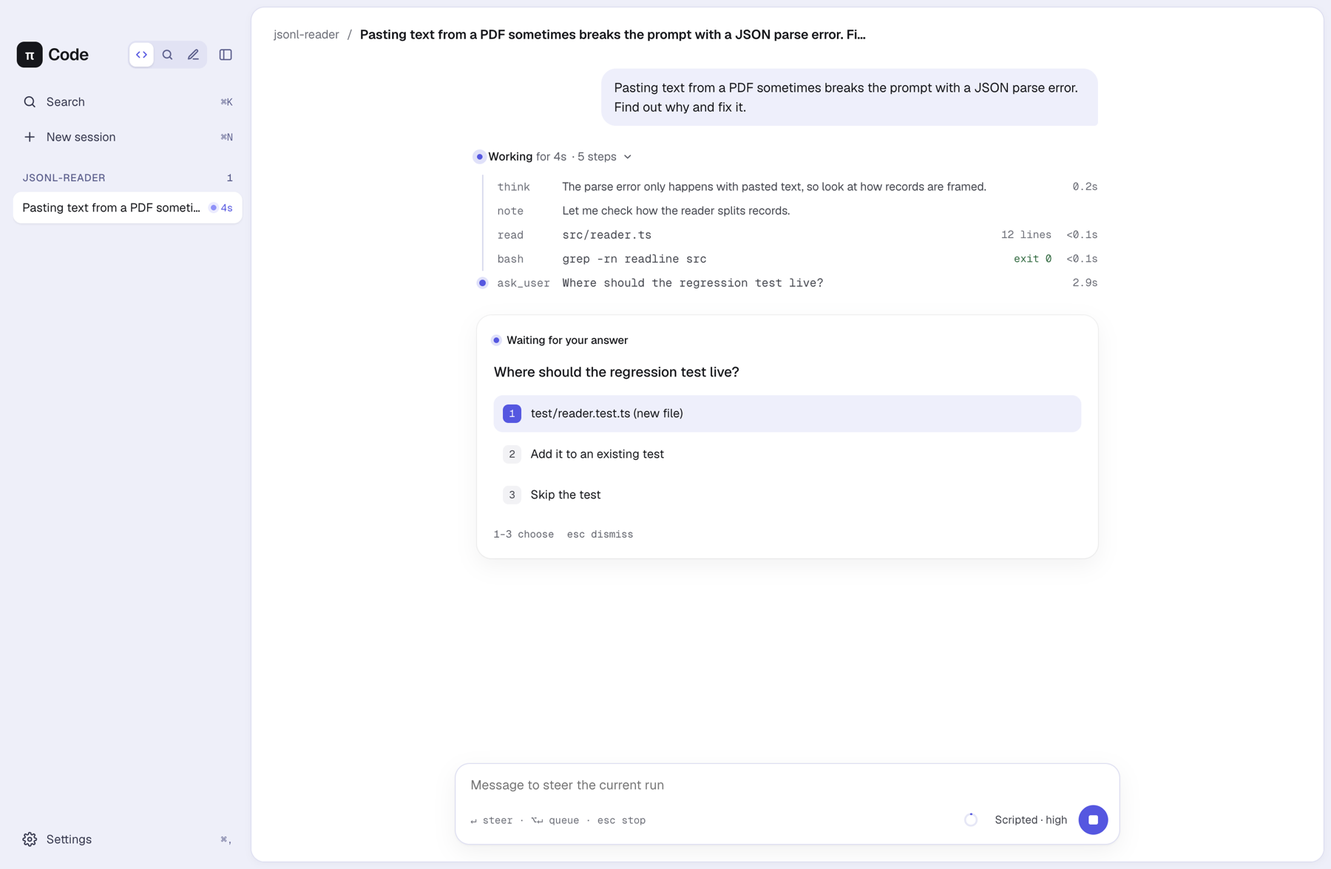
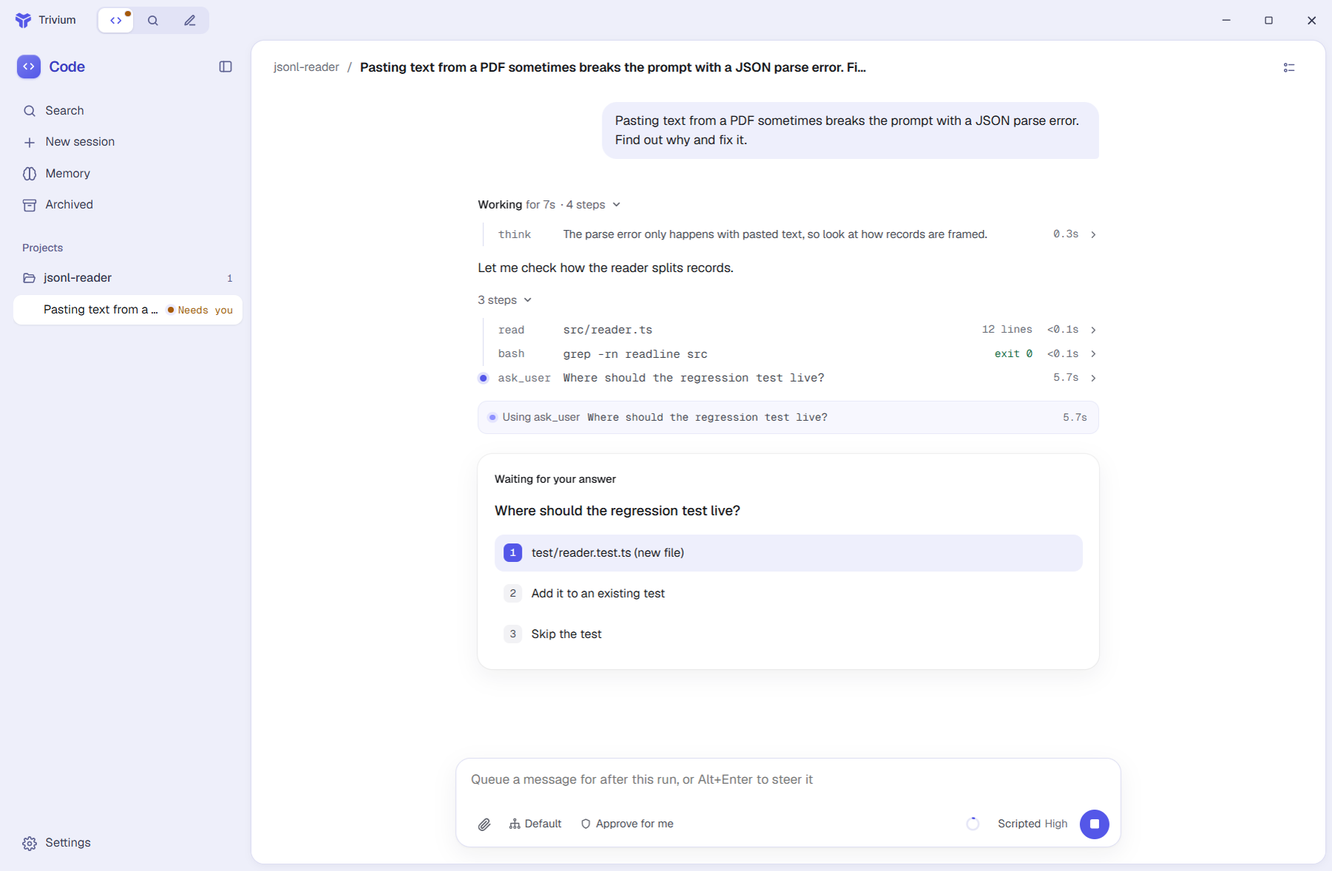
Update READMEs and screenshots for v0.14.0

diff --git a/README.zh-CN.md b/README.zh-CN.md
@@ -20,7 +20,7 @@
 
 [功能](#功能) · [快速开始](#快速开始) · [工作原理](#工作原理) · [扩展](#扩展) · [路线图](#路线图) · [参与贡献](#参与贡献)
 
-<img src="docs/screenshots/hero.png" alt="Trivium 的代码模式：一次完成的 bug 修复，包含步骤、Agent 的回答和可审阅的差异" width="100%">
+<img src="docs/screenshots/hero.png" alt="Trivium 的代码模式：一次完成的 bug 修复，包含步骤、Agent 的回答，以及带可审阅差异的源代码管理面板" width="100%">
 
 </div>
 
@@ -39,7 +39,7 @@
 
 | | 模式 | 适用场景 | 默认配置 |
 |---|---|---|---|
-| <img src="https://img.shields.io/badge/-%20-5457E8?style=flat-square" alt=""> | **代码** | 修复和构建软件 | `read` `bash` `edit` `write`，以及包含更改、Git、预览和服务的侧边面板 |
+| <img src="https://img.shields.io/badge/-%20-5457E8?style=flat-square" alt=""> | **代码** | 修复和构建软件 | `read` `bash` `edit` `write`，以及包含源代码管理、文件、预览和服务的标签页侧边面板 |
 | <img src="https://img.shields.io/badge/-%20-0B7A6E?style=flat-square" alt=""> | **研究** | 阅读资料、撰写笔记 | 不使用 shell；`read` `write` `grep` `find` `ls` 以及任何 `web_*` 工具；要求为每个论点注明出处 |
 | <img src="https://img.shields.io/badge/-%20-A65A08?style=flat-square" alt=""> | **写作** | 项目中的文档 | 编辑类工具；要求保留你的文风，并以小而可审阅的步骤修改 |
 
@@ -47,20 +47,22 @@
 
 ### 看到工作过程，而不只是答案
 
-- **步骤可折叠也可展开。** “已完成 用时 6.4s · 8 个步骤 · 1 个失败”默认不打扰你；展开即可看到每次读取、搜索、编辑和命令，以及它们的结果和耗时。
+- **步骤可折叠也可展开。** Agent 工作时，进度说明会留在对话中；最终回答给出后，进度说明和中间步骤会折叠在“已完成 用时 6.4s · 8 个步骤 · 1 个失败”下。展开即可看到每次读取、搜索、编辑和命令，以及它们的结果和耗时。
 - **正在做什么。** “工作中”下方有一行低调的文字，写明当前步骤，命令则显示其最新一行输出。
 - **子 Agent 像真正的 Agent 一样工作。** `pi-subagents` 调用会显示委派给了谁、每个子 Agent 在做什么，并行时每个子 Agent 一行；展开后可以看到任务、结果、模型和 token。后台结果会作为一次独立的运行送达。
-- **编程会话的编排工作方式。** 在项目会话的消息框中选择，或在设置 → 编程中设置新会话的默认值。Agent 先勘察大型任务，默认只安排一个编写代理；涉及不同文件、接口已确定的并行编写任务会使用独立的托管工作树，之后由主 Agent 逐个应用补丁并在项目中检查。默认方式保留原有指引。对话显示计划和所有子 Agent，代理标签页显示活动、结果、token、分支和补丁，操作按钮仅填写消息草稿。子 Agent 在项目中修改的文件进入“本会话”，并受编程权限门控保护，需要批准的操作会被拒绝。分叉会话继承工作方式。
-- **运行中排队或引导。** Agent 工作时也可以输入：`↵` 将后续消息排队到本次运行之后，`⌥↵` 引导当前运行，`esc` 停止。
+- **代码模式的编排工作方式。** 在项目会话的消息框中选择，或在设置 → 代码中设置新会话的默认值。Agent 先勘察大型任务，默认只安排一个编写代理，并为互不冲突的并行编写任务分配独立的托管工作树，之后应用补丁并在项目中检查结果。默认方式保留原有指引。对话显示计划和每个子 Agent；打开任意子 Agent 可在对话旁或独立窗口中阅读其会话，并可停止工作流中或后台运行的子 Agent。子 Agent 在项目中的更改会出现在源代码管理中，且子 Agent 运行在代码的权限关卡之下，不会自行弹出审批提问。分叉会话继承工作方式。
+- **回复中的图表。** Agent 回复中的 Mermaid 和 PlantUML 代码块会直接在对话中绘制为交互式图表：支持缩放和平移、全屏放大、在预览中打开，或下载为 SVG 或 PNG。
+- **运行中排队或引导。** Agent 工作时也可以输入：`↵` 会将后续消息加入消息框上方的可见队列（可对每条排队消息执行引导、编辑或删除），`⌥↵` 引导当前运行，`esc` 停止。
 - **上下文一目了然。** 一个小圆环显示上下文窗口用了多少；悬停可查看明细以及何时会自动压缩。
 - **回复耗时。** 指向一条回复，即可看到回答时间、总耗时、首个 token 用时和每秒 token 数。
 - **用平实的语言说明限额。** 当提供商的用量上限或余额用尽时，Trivium 会说明发生了什么、何时重置、去哪里充值，提供商的原始消息一键可见。
 
 ### 对话
 
+- **分屏视图。** 可通过侧边栏菜单、`⌘`+点击会话、将会话拖到窗口左半或右半，或按 `⌘⇧\` 并排打开两个会话。可拖动调整分屏宽度，各模式在重启后会记住分屏布局；窗口较窄时自动切换为两个标签页。
 - **编辑、分叉或复制任意消息。** 编辑会就地打开一条消息，发送后从这里重新开始；pi 会把旧的回复保留在单独的分支上。分叉会把对话截至某条消息的内容复制到一个新会话中。复制会按原样复制消息或回复的 Markdown。
 - **无项目的聊天。** 在“新会话”中选择**无项目**，即可开始不需要文件夹的对话。这些聊天位于侧边栏的“聊天”下。
-- **置顶与整理。** 右键点击项目或会话，可以将其置顶、新建会话、将消息导出为 Markdown、复制会话 ID、归档或删除。归档的会话会离开侧边栏和搜索，移到**已归档**，按工作区列出，可在此还原或删除。
+- **置顶与整理。** 右键点击项目或会话，可以将其置顶、新建会话、将消息导出为 Markdown、复制会话 ID、归档或删除。超过 8 个会话的项目会将较早的会话折叠在**显示更多**后面。归档的会话会离开侧边栏和搜索，移到**已归档**，按工作区列出，可在此还原或删除。
 - **一个按钮管理模型和思考强度。** 消息框中的模型按钮会打开一个菜单，用滑块调节思考强度，并提供可搜索的模型列表。
 
 <p align="center">
@@ -88,15 +90,12 @@
 
 ### 审阅每一处更改
 
-代码模式的侧边面板一次显示一个视图，可在其**在面板中显示**菜单中选择。
+代码模式的侧边面板以标签页形式承载各个视图（就像浏览器标签页），可从标题栏的**概要卡片**按钮打开；点击该按钮会在对话上方下拉一张清单，汇总服务、源代码管理和文件状态。
 
-- **更改。** 无论是通过编辑，还是通过格式化工具、`sed` 或 `rm` 之类的命令，代码模式都会在 Agent 首次改动某个文件之前记录它，因此这个视图在**此会话**下按文件列出整个会话的净差异。对于命令，它会在每条命令运行前为项目拍下快照，运行后再作比较；无论是否在 git 仓库中都可以，而且不会写入你的 `.git`。git 忽略的文件、超过 10 MB 的文件、项目之外的文件，以及仍在后台运行的命令之后写入的内容不在其列。每个文件都有还原按钮，可只恢复该文件（Agent 创建的文件会连同为它创建的文件夹一起删除）。文件提交后会离开此列表，因此还原不会撤销已提交的工作。在 git 仓库中，这个视图还会显示分支、待推送或待拉取的提交，并在**其他未提交的更改**下列出 git 报告的其余内容：你自己的编辑、会话之前就已更改的文件。已暂存和有冲突的文件会带有标记。git 部分会在运行结束、编辑或命令之后以及窗口重新获得焦点时刷新，无需轮询。任何文件都可以在 VS Code 中打开，会话的文件会定位到第一处更改。
-- **历史。** 对话旁的**历史**卡片会以提交图显示所有分支、远程分支和标签。点击提交可查看作者、提交信息和更改的文件，点击文件可阅读它在该提交中的差异。合并提交显示与第一个父提交的差异。不是 git 仓库的文件夹会在标签页中说明。
-- **预览。** 以标签页打开项目文件：HTML 页面在沙盒框架中显示，带有自己的样式和图片（在你允许之前脚本关闭，网络被阻止），还支持 Markdown（含 Mermaid 和 PlantUML 图表，PlantUML 需要在本机安装）、CSV 表格、带行号的文本和图片。文件在磁盘上变化时会自动重新加载。可以从步骤上的眼睛图标、回复中的文件路径，或更改视图中打开。回复中的图表也可以在这里打开，或在应用上方放大查看：滚轮缩放，拖动移动，并可下载为 SVG 或 PNG。
-- **服务。** 开发服务器、监视进程、数据库，以及命令留下的任何其他进程，例如 `npm run dev &`。每个服务都会显示其命令、进程、监听的端口和最新输出，并提供**停止**按钮，停止它以及它启动的所有进程。可以在预览或浏览器中打开它的地址。标题栏和侧边栏中的绿点表示某个会话有服务在运行。会话被卸载时服务继续运行，会话被删除或 Trivium 退出时服务会停止（退出前会询问）。如果 Trivium 崩溃，下次启动时它们会再次显示。
-
-标题栏会显示会话所在的分支、更改了多少文件，并在有提交需要推送或拉取时显示一个圆点。点击它可以看到文字概览：
-上游分支及其最近一次获取时间、尚未推送的提交和远程有而本地没有的提交、已暂存或已更改的内容，以及一个让 Agent 推送的按钮。
+- **源代码管理。** 一个标签页整合 git 状态、提交和历史：分支及推送/拉取、可由当前会话模型起草的提交信息输入框（支持选择在 `Trivium-Session` trailer 中关联会话）、已暂存与未暂存文件（可暂存、取消暂存和放弃更改）、合并冲突，以及所有分支的提交图。点击提交可查看作者、提交信息、更改的文件和差异（合并提交对比第一个父提交），并跳回关联的会话。Trivium 也会在 Agent 首次改动某个文件之前记录其内容，无论是通过 `edit`/`write` 还是 shell 命令（通过私有 git 快照完成，不会写入你的 `.git`，跳过 git 忽略的文件、超过 10 MB 的文件、项目之外的文件以及后台命令的写入），因此可以逐个还原本会话的编辑；在非 git 仓库中，源代码管理会列出本会话的编辑（支持逐文件还原）并提供初始化仓库的入口。选中文件会在同一标签页的列表下方打开差异（或标出改动行的完整文件），任何文件都可以在 VS Code 中打开。
+- **文件。** 以文件树浏览整个项目，带有 git 状态标记、名称筛选，并可按需显示 git 忽略的文件夹。用 `@` 在消息框中提及文件、在 VS Code 中打开，或点击以在同一标签页的文件树下方阅读完整文件（已修改时可查看差异）。
+- **预览。** 以标签页打开项目文件：HTML 页面在沙盒框架中显示，带有自己的样式和图片（在你允许之前脚本关闭，网络被阻止），还支持 Markdown（含 Mermaid 和 PlantUML 图表，PlantUML 需要在本机安装）、CSV 表格、带行号的文本和图片。文件在磁盘上变化时会自动重新加载，也可在访达或文件资源管理器中显示。可以从步骤上的眼睛图标或回复中的文件路径打开。回复中的图表也可以在这里打开，或在应用上方放大查看：滚轮缩放，拖动移动，并可下载为 SVG 或 PNG。
+- **服务。** 开发服务器、监视进程、数据库，以及命令留下的任何其他进程，例如 `npm run dev &`。运行超过 10 分钟仍未结束的命令也会自动转入这里的后台继续运行（由**设置 → 代码 → 扩展**中的 `long-commands` 扩展控制），并在结束时向会话汇报。每个服务都会显示其命令、进程、监听的端口和最新输出，并提供**停止**按钮，停止它以及它启动的所有进程。可以在预览或浏览器中打开它的地址。标题栏和侧边栏中的绿点表示某个会话有服务在运行。会话被卸载时服务继续运行，会话被删除或 Trivium 退出时服务会停止（退出前会询问）。如果 Trivium 崩溃，下次启动时它们会再次显示。
 
 ### 笔记与修订
 
@@ -130,15 +129,17 @@ HTTP，请只在可信网络中开启。
 ### 让每个模式为你所用
 
 <p align="center">
-  <img src="docs/screenshots/settings.png" alt="研究模式的设置：带开关的扩展、工具列表，以及该模式追加的系统提示" width="85%">
+  <img src="docs/screenshots/settings.png" alt="研究模式的设置：带开关的扩展、内置包以及技能部分" width="85%">
 </p>
 
 - **按模式配置扩展。** 将文件放入 `~/.trivium/apps/<app>/extensions/`，从任意位置添加一个，或关闭 pi 会为该模式加载的任何扩展。“添加扩展”对话框会为每个模式推荐 pi 包。
-- **内置的包。** 每个模式都自带可移除的 pi 包：所有模式都有记忆和子 Agent，代码模式另有 `/plan`，研究模式有文档解析，写作模式有 PDF 导出。
+- **按模式配置技能。** 每个模式的设置页都会列出已加载的技能、它们的来源以及对应的 `/skill:` 命令。你可以为该模式关闭任意技能，创建或编辑 `SKILL.md`，上传文件夹、`.md` 文件或 `.zip`/`.skill` 压缩包，或将内置技能自定义保存到 `~/.trivium/apps/<app>/skills/`。
+- **内置的包。** 每个模式都自带可移除的 pi 包：所有模式都有记忆，代码和研究模式有子 Agent，代码模式另有 `/plan`（以及 `long-commands`），研究模式有文档解析，写作模式有 PDF 导出。
 - **代码模式的权限模式。** 由 Trivium 自己的权限关卡执行，除了每个模式所写的规则外没有其他规则：**始终询问**（每次编辑和每条命令，只读命令除外）、**接受编辑**（项目内的编辑直接运行，命令会询问）、**替我批准**（默认：只在 `rm -r`、`sudo`、`git push` 和修改项目外的文件前询问）或**跳过权限检查**。更改会从运行中会话的下一步开始生效，`.env` 文件在所有模式下都被阻止。
 - **按模式选择模型。** 研究用快速模型，代码用你最强的模型。
 - **内置登录。** 使用 pi 自己的登录流程连接提供商：API 密钥、浏览器登录、设备码。每个提供商都会显示其标志。
 - **自定义端点。** 添加 Ollama、LM Studio、vLLM、代理，或任何兼容 OpenAI、Anthropic 或 Gemini 的服务器。Trivium 会获取其模型，以及服务器提供的上下文窗口、输出上限、图片和思考支持信息，你也可以逐个设置。内置提供商也有同样的模型列表，可用于代理 Base URL、按模型覆盖设置或按 ID 添加模型。所有设置都写入 pi 的 `models.json`，pi CLI 也会提供这些模型。
+- **外观与更新。** 在**设置 → 通用**中设置对话宽度（标准、宽、更宽或全宽）和文字大小，并在**设置 → 关于**中通过 SHA-256 校验直接在应用内更新打包版本。
 - **会话自我管理。** 闲置的会话会在一段时间后卸载，打开时再从磁盘重新加载。
 - **你的语言。** 界面提供 English、简体中文和日本語，默认跟随电脑的语言，也可以在**设置 → 通用**中选择。
 
@@ -186,6 +187,7 @@ npm start
 | `⌘N` | 新会话 |
 | `⌘K` | 在所有模式中搜索会话 |
 | `⌘\` | 折叠或展开侧边栏 |
+| `⌘⇧\` | 打开或关闭分屏 |
 | `⌘,` | 设置 |
 | `↵` / `⌥↵` | 发送（运行进行中时排队）/ 引导当前运行 |
 | `/` | 命令及建议；`tab` 补全 |
@@ -198,13 +200,13 @@ npm start
 ```mermaid
 flowchart LR
   subgraph Window["Renderer (React)"]
-    UI["Sidebar · Transcript · Composer<br/>Changes · Git · Preview · Services<br/>Memory · Settings"]
+    UI["Sidebar · Transcript · Composer<br/>Source Control · Files · Preview · Services<br/>Memory · Settings"]
   end
   subgraph Main["Main process (Node)"]
     Host["Session host<br/>one AgentSession per open session"]
     Tracker["Run tracker<br/>events → steps"]
     Changes["Change tracker<br/>baselines → diffs"]
-    Git["Git reader<br/>status → branch, files"]
+    Git["Git reader<br/>status · commits · history"]
     Dialogs["Dialog bridge"]
   end
   subgraph Pi["pi SDK"]
@@ -222,17 +224,19 @@ flowchart LR
 ```
 
 - **pi 在进程内运行。** 主进程使用 pi SDK 创建 `AgentSession`，没有 CLI 子进程，也没有 RPC 封装。
-- **每个模式都是一个 Agent 配置：** 一份工具白名单、一段追加到系统提示的内容，以及一个扩展文件夹，在会话加载时生效。
+- **每个模式都是一个 Agent 配置：** 一份工具白名单、一段追加到系统提示的内容，以及扩展和技能文件夹，在会话加载时生效。
 - **你的数据留在 pi 存放它的地方。** 会话位于 `~/.pi/agent/sessions`，登录信息位于 `~/.pi/agent/auth.json`。Trivium 只在 `~/.trivium` 中添加自己的偏好设置。
 
 | 路径 | 内容 |
 |---|---|
 | `~/.pi/agent/` | pi 的设置、登录信息、模型和会话，与 pi CLI 共用 |
 | `~/.trivium/apps/<app>/extensions/` | 仅为该模式加载的扩展 |
-| `~/.trivium/settings.json` | 语言、文字大小、闲置卸载、通知、按模式的模型和扩展开关 |
+| `~/.trivium/apps/<app>/skills/` | 仅为该模式加载的技能，可覆盖同名的 pi 技能 |
+| `~/.trivium/settings.json` | 语言、文字大小、对话宽度、闲置卸载、通知、按模式的模型以及扩展和技能开关 |
 | `~/.trivium/session-apps.json` | 每个会话所属的模式；来自其他地方的会话显示在代码模式下 |
-| `~/.trivium/changes/` | Agent 更改之前的文件内容，直到你接受、还原或提交；以及每个会话为其项目保存的快照，保留到会话被删除 |
+| `~/.trivium/changes/` | Agent 更改之前的文件内容，直到你还原或提交；以及每个会话为其项目保存的快照，保留到会话被删除 |
 | `~/.trivium/chats/` | 以“无项目”启动的会话的工作文件夹 |
+| `~/.trivium/proxy.json` | 本地 API 代理配置、模型别名和 SHA-256 密钥摘要 |
 | `~/.trivium/usage-cache.json` | 每个会话的用量合计，只有在其文件变化时才重新统计 |
 | `~/.pi/agent/memory/`、`.pi/memory/MEMORY.md` | 由 `@pify/memory` 保存的全局记忆和项目记忆 |
 
@@ -301,19 +305,21 @@ dev/          The scripted development model
 
 ## 路线图
 
-- [x] 代码、研究和写作模式，带实时步骤、引导和上下文圆环
+- [x] 代码、研究和写作模式，带实时步骤、引导、消息队列和上下文圆环
 - [x] 对话内的扩展对话框和系统通知
-- [x] 可保留或还原的更改面板
-- [x] 设置：登录、自定义端点、默认模型和按模式的模型、按模式的扩展
+- [x] 设置：登录、自定义端点、默认模型和按模式的模型、按模式的扩展和技能
 - [x] 研究：带来源的笔记预览面板
 - [x] 写作：带修订的文档面板，可接受或拒绝
 - [x] 每个模式都有记忆，并有记忆页面供查看
 - [x] 显示 token、费用和回复速度的用量页面
 - [x] 用于 MCP 服务器的连接器页面
-- [x] 代码：Git 视图、分支概览和文件预览
-- [x] 编辑、分叉和复制消息；无项目的聊天；置顶的项目和会话
+- [x] 代码：源代码管理标签页（暂存、AI 起草提交信息、推送/拉取、冲突、提交图）、文件树、预览和服务
+- [x] 用 git 快照跟踪通过 `bash` 做出的更改，并将长时间运行的命令转入服务
+- [x] 编排工作模式，支持子 Agent 会话抽屉、独立窗口和托管工作树
+- [x] 本地 OpenAI 和 Anthropic API 代理
+- [x] 分屏视图；编辑、分叉和复制消息；无项目的聊天；归档、置顶的项目和会话
+- [x] 回复和 Markdown 预览中的交互式 Mermaid 和 PlantUML 图表
 - [x] 英文、简体中文和日文界面
-- [x] 用 git 快照跟踪通过 `bash` 做出的更改
 - [ ] 按名称从 npm 安装扩展，以及 `@coresmos` 下的官方插件
 - [ ] 深色主题
 - [ ] macOS、Windows 和 Linux 的签名版本

diff --git a/README.md b/README.md
@@ -20,7 +20,7 @@ extensions and model, so the agent fixing your code is not the one citing your s
 
 [Features](#features) · [Quick start](#quick-start) · [How it works](#how-it-works) · [Extensions](#extensions) · [Roadmap](#roadmap) · [Contributing](#contributing)
 
-<img src="docs/screenshots/hero.png" alt="Trivium's Code mode: a finished bug fix with its steps, the agent's answer, and a reviewable diff" width="100%">
+<img src="docs/screenshots/hero.png" alt="Trivium's Code mode: a finished bug fix with its steps, the agent's answer, and the Source Control panel with a reviewable diff" width="100%">
 
 </div>
 
@@ -41,7 +41,7 @@ skill and provider works here.
 
 | | Mode | Built for | Default setup |
 |---|---|---|---|
-| <img src="https://img.shields.io/badge/-%20-5457E8?style=flat-square" alt=""> | **Code** | Fixing and building software | `read` `bash` `edit` `write`, plus a panel with Changes, Git, Preview and Services |
+| <img src="https://img.shields.io/badge/-%20-5457E8?style=flat-square" alt=""> | **Code** | Fixing and building software | `read` `bash` `edit` `write`, plus a tabbed panel with Source Control, Files, Preview and Services |
 | <img src="https://img.shields.io/badge/-%20-0B7A6E?style=flat-square" alt=""> | **Research** | Reading sources and writing notes | No shell; `read` `write` `grep` `find` `ls` and any `web_*` tools; told to cite every claim |
 | <img src="https://img.shields.io/badge/-%20-A65A08?style=flat-square" alt=""> | **Write** | Documents in your project | Edit tools; told to keep your voice and make small, reviewable edits |
 
@@ -50,20 +50,22 @@ you which mode is still busy.
 
 ### See the work, not just the answer
 
-- **Steps, folded or detailed.** "Worked for 6.4s · 8 steps · 1 failed" stays out of the way; open it to see each read, search, edit and command with its result and duration.
+- **Steps, folded or detailed.** Progress notes stay in the conversation while the agent works; after the final answer, notes and intermediate steps fold under "Worked for 6.4s · 8 steps · 1 failed". Open it to see each read, search, edit and command with its result and duration.
 - **What it's doing now.** One quiet line under "Working" names the current step, with a command's latest line of output.
 - **Subagents as agents at work.** A `pi-subagents` call shows who it delegated to and what each child is doing, a row per child in parallel, with its task, result, model and tokens when you open it. Background results arrive as a run of their own.
-- **Orchestrator work mode in Code.** Choose it in a project session's message box, or set the default for new sessions in Settings → Code. The agent scouts large tasks, uses one writer by default, and gives independent parallel writers separate managed worktrees before applying their patches and checking the result in the project. Default keeps today's guidance. The thread shows the plan and every child; open any child to read its session beside the thread or in its own window, and stop one that runs in a workflow or in the background. Child edits in the project appear in Changes, and children run behind Code's permission gate without asking approval questions of their own. Forks inherit the work mode.
-- **Queue or steer mid-run.** Type while the agent works: `↵` queues a follow-up for after the run, `⌥↵` steers the current run, `esc` stops.
+- **Orchestrator work mode in Code.** Choose it in a project session's message box, or set the default for new sessions in Settings → Code. The agent scouts large tasks, uses one writer by default, and gives independent parallel writers separate managed worktrees before applying their patches and checking the result in the project. Default keeps today's guidance. The thread shows the plan and every child; open any child to read its session beside the thread or in its own window, and stop one that runs in a workflow or in the background. Child edits in the project appear in Source Control, and children run behind Code's permission gate without asking approval questions of their own. Forks inherit the work mode.
+- **Diagrams in replies.** Fenced Mermaid and PlantUML blocks in agent replies draw as interactive diagrams right in the thread: zoom and pan, expand full-screen, open in Preview or download as SVG or PNG.
+- **Queue or steer mid-run.** Type while the agent works: `↵` adds a follow-up to the visible message queue above the message box (where each queued message can be steered, edited or deleted), `⌥↵` steers the current run, `esc` stops.
 - **Context at a glance.** A small ring shows how full the context window is; hover it for the breakdown and when compaction kicks in.
 - **Reply timing.** Point at a reply to see when it was answered, how long it took, its time to first token and tokens a second.
 - **Limits in plain words.** When a provider's usage limit or balance runs out, Trivium says what happened, when it resets and where to top up, with the provider's own message a click away.
 
 ### Conversations
 
+- **Split view.** Open two sessions side by side from the sidebar menu, by `⌘`-clicking a session, dragging it onto either half of the window, or pressing `⌘⇧\`. Resize the split, and each mode remembers it across restarts; narrow windows switch to tabs for both.
 - **Edit, fork or copy any message.** Edit opens a message in place and starts over from it when you send; pi keeps the old replies on their own branch. Fork copies the conversation up to a message into a new session. Copy takes a message or a reply's Markdown as written.
 - **Chats without a project.** Pick **No project** in New session for a conversation that needs no folder. Chats sit under "Chats" in the sidebar.
-- **Pin and organize.** Right-click a project or session to pin it to the top, start a new session, export the messages as Markdown, copy the session ID, archive it or delete it. Archived sessions leave the sidebar and search for **Archived**, where they are listed by workspace to restore or delete.
+- **Pin and organize.** Right-click a project or session to pin it to the top, start a new session, export the messages as Markdown, copy the session ID, archive it or delete it. Projects with more than eight sessions fold older ones behind **Show more**. Archived sessions leave the sidebar and search for **Archived**, where they are listed by workspace to restore or delete.
 - **One button for model and effort.** The composer's model button opens a menu with the thinking effort as a slider and a searchable model list.
 
 <p align="center">
@@ -92,16 +94,12 @@ needs you, you get a notification.
 
 ### Review every change
 
-Code mode's side panel shows one view at a time, picked from its **Show in panel** menu.
+Code mode's side panel holds its views as tabs—like browser tabs—opened from the header's **summary cards** button, which drops one list over the thread summarizing Services, Source Control and Files.
 
-- **Changes.** Code mode records each file before the agent first changes it, by an edit or by a command such as a formatter, `sed` or `rm`, so this view lists the net diff of the whole session, per file, under **This session**. For commands it snapshots the project before each one and compares after, in a git repository or not, without writing to your `.git`. That leaves out files git ignores, files over 10 MB, files outside the project, and what a command still running in the background writes later. Each file has a revert button that puts that one back, or deletes it, along with any folders made for it, if the agent created it. A file leaves this list once it is committed, so reverting never undoes committed work. In a git repository the view also shows the branch, commits to push or pull, and under **Other uncommitted changes** whatever else git reports: your own edits and files changed before the session. Staged and conflicted files are tagged. Git's side refreshes after a run, after an edit or command, and when the window regains focus, without polling. Open any file in VS Code, at the first changed line for the session's files.
-- **History.** The **History** card beside the conversation draws every branch, remote branch and tag as a commit graph. Click a commit to see who wrote it, its message and the files it changed, and click a file to read its diff in that commit. A merge shows its changes against its first parent. Outside a git repository the tab says so instead.
-- **Preview.** Open project files as tabs: HTML pages in a sandboxed frame with their own styles and images (scripts off until you ask, network blocked), Markdown with Mermaid and PlantUML diagrams (PlantUML needs a local install), CSV tables, text with line numbers, and images. Files reload when they change on disk. Open one from a step's eye icon, a file path in a reply, or the Changes view. A diagram in a reply opens here too, or large over the app: the wheel zooms, dragging moves it, and it downloads as SVG or PNG.
-- **Services.** Dev servers, watchers, databases and any other process a command leaves running, such as `npm run dev &`. Each shows its command, processes, the port it listens on and its latest output, with **Stop**, which ends it and everything it started. Open its address in Preview or the browser. A green dot in the header and the sidebar says a session has some running. Services keep running when a session is unloaded, and stop when the session is deleted or Trivium quits, which asks first. If Trivium crashes, they show again at the next start.
-
-The header shows the session's branch, how many files changed, and a dot when there are commits to
-push or pull. Click it for a summary in words: the upstream and when it was last fetched, commits
-not pushed and on the remote, what is staged or changed, and a button to ask the agent to push.
+- **Source Control.** One tab for git status, commits and history: the branch with push and pull, a commit message box the session's model can draft (with an option to link the session in a `Trivium-Session` trailer), staged and unstaged files with stage, unstage and discard, merge conflicts, and every branch's commit graph. Click a commit to see its author, message, changed files and diffs—a merge diffs against its first parent—and jump back to any linked session. Trivium also records each file before the agent first changes it, by `edit`/`write` or by a shell command (via private git snapshots without touching your `.git`, skipping gitignored files, files over 10 MB, files outside the project and background writes), so you can revert individual session edits; outside a git repository, Source Control lists this session's edits with per-file revert and offers to initialize one. Picking a file opens its diff—or the full file with changed lines marked—below the list in the same tab, and any file opens in VS Code.
+- **Files.** Browse the whole project as a tree with git status indicators, a name filter and git-ignored folders on request. Mention a file in the message box with `@`, open it in VS Code, or click it to read the full file—or its diff when modified—below the tree in the same tab.
+- **Preview.** Open project files as tabs: HTML pages in a sandboxed frame with their own styles and images (scripts off until you ask, network blocked), Markdown with Mermaid and PlantUML diagrams (PlantUML needs a local install), CSV tables, text with line numbers, and images. Files reload when they change on disk and can be revealed in Finder or File Explorer. Open one from a step's eye icon or a file path in a reply. Diagrams in replies open here too, or large over the app: the wheel zooms, dragging moves them, and they download as SVG or PNG.
+- **Services.** Dev servers, watchers, databases and any other process a command leaves running, such as `npm run dev &`. Commands still running after 10 minutes also move to the background here (controlled by the `long-commands` extension in **Settings → Code → Extensions**) and report back to the session when they end. Each shows its command, processes, the port it listens on and its latest output, with **Stop**, which ends it and everything it started. Open its address in Preview or the browser. A green dot in the header and the sidebar says a session has some running. Services keep running when a session is unloaded, and stop when the session is deleted or Trivium quits, which asks first. If Trivium crashes, they show again at the next start.
 
 ### Notes and tracked changes
 
@@ -140,15 +138,17 @@ computer only unless you allow your network, which is plain HTTP and for network
 ### Make each mode yours
 
 <p align="center">
-  <img src="docs/screenshots/settings.png" alt="Research mode settings: extensions with on/off switches, the tool list and the mode's system prompt addition" width="85%">
+  <img src="docs/screenshots/settings.png" alt="Research mode settings: extensions with on/off switches, built-in packages and the Skills section" width="85%">
 </p>
 
 - **Per-mode extensions.** Drop files into `~/.trivium/apps/<app>/extensions/`, add one from anywhere, or switch off anything pi would load for that mode. The Add extension dialog recommends pi packages for each mode.
-- **Packages built in.** Each mode ships with pi packages you can remove: memory and subagents everywhere, plus `/plan` in Code, document parsing in Research, and PDF export in Write.
+- **Per-mode skills.** Each mode's Settings page lists loaded skills with where each comes from and its `/skill:` command. Switch any skill off for that mode, create or edit `SKILL.md`, upload a folder, `.md` file or `.zip`/`.skill` archive, or customize a built-in skill into `~/.trivium/apps/<app>/skills/`.
+- **Packages built in.** Each mode ships with pi packages you can remove: memory everywhere, subagents in Code and Research, plus `/plan` (and `long-commands`) in Code, document parsing in Research, and PDF export in Write.
 - **Permission modes in Code.** Trivium's own gate, with no rules beyond what each mode says: **Always ask** (every edit and command, except ones that only read), **Accept edits** (edits in the project run; commands ask), **Approve for me** (the default: asks only before `rm -r`, `sudo`, `git push` and changing files outside the project) or **Bypass permissions**. A change applies to running sessions from their next step, and `.env` files stay blocked in every mode.
 - **Per-mode model.** Research on a fast model, Code on your strongest one.
 - **Logins built in.** Connect providers with pi's own login flows: API keys, browser sign-in, device codes. Each provider shows its logo.
 - **Custom endpoints.** Add Ollama, LM Studio, vLLM, a proxy or any OpenAI, Anthropic or Gemini-compatible server. Trivium fetches its models with their context window, output limit, image and thinking support where the server says, and you can set each one yourself. Built-in providers get the same model list, for a proxy base URL, per-model overrides or models added by ID. It all goes to pi's `models.json`, so the pi CLI offers them too.
+- **Appearance and updates.** Set conversation width (Standard, Wide, Extra wide or Full width) and text size in **Settings → General**, and update packaged builds from inside the app with SHA-256 verification in **Settings → About**.
 - **Sessions that manage themselves.** Idle sessions unload after a while and reload from disk when you open them.
 - **Your language.** The interface comes in English, 简体中文 and 日本語. It follows your computer's language unless you pick one in **Settings → General**.
 
@@ -202,6 +202,7 @@ windows before restarting so the old taskbar group can exit.
 | `⌘N` | New session |
 | `⌘K` | Search sessions in every mode |
 | `⌘\` | Fold or unfold the sidebar |
+| `⌘⇧\` | Open or close split view |
 | `⌘,` | Settings |
 | `↵` / `⌥↵` | Send (queues while a run is going) / steer the run |
 | `/` | Commands, with suggestions; `tab` completes |
@@ -214,13 +215,13 @@ On Windows, `⌘` is `Ctrl` and `⌥` is `Alt`.
 ```mermaid
 flowchart LR
   subgraph Window["Renderer (React)"]
-    UI["Sidebar · Transcript · Composer<br/>Changes · Git · Preview · Services<br/>Memory · Settings"]
+    UI["Sidebar · Transcript · Composer<br/>Source Control · Files · Preview · Services<br/>Memory · Settings"]
   end
   subgraph Main["Main process (Node)"]
     Host["Session host<br/>one AgentSession per open session"]
     Tracker["Run tracker<br/>events → steps"]
     Changes["Change tracker<br/>baselines → diffs"]
-    Git["Git reader<br/>status → branch, files"]
+    Git["Git reader<br/>status · commits · history"]
     Dialogs["Dialog bridge"]
   end
   subgraph Pi["pi SDK"]
@@ -238,17 +239,19 @@ flowchart LR
 ```
 
 - **pi runs in-process.** The main process creates `AgentSession`s with the pi SDK, with no CLI subprocess and no RPC framing.
-- **Each mode is an agent profile:** a tool allowlist, an addition to the system prompt, and an extension folder, applied when a session loads.
+- **Each mode is an agent profile:** a tool allowlist, an addition to the system prompt, and extension and skill folders, applied when a session loads.
 - **Your data stays where pi keeps it.** Sessions live in `~/.pi/agent/sessions` and logins in `~/.pi/agent/auth.json`. Trivium adds only its own preferences in `~/.trivium`.
 
 | Path | What it holds |
 |---|---|
 | `~/.pi/agent/` | pi's settings, logins, models and sessions, shared with the pi CLI |
 | `~/.trivium/apps/<app>/extensions/` | Extensions loaded only for that mode |
-| `~/.trivium/settings.json` | Language, text size, idle unloading, notifications, per-mode models and extension switches |
+| `~/.trivium/apps/<app>/skills/` | Skills loaded only for that mode, overriding pi's skill of the same name |
+| `~/.trivium/settings.json` | Language, text size, conversation width, idle unloading, notifications, per-mode models and extension/skill switches |
 | `~/.trivium/session-apps.json` | Which mode each session belongs to; sessions from elsewhere show under Code |
-| `~/.trivium/changes/` | File contents from before the agent's changes, until you accept, revert or commit them, and each session's snapshot of its project, kept until the session is deleted |
+| `~/.trivium/changes/` | File contents from before the agent's changes, until you revert or commit them, and each session's snapshot of its project, kept until the session is deleted |
 | `~/.trivium/chats/` | The working folder for sessions started with No project |
+| `~/.trivium/proxy.json` | Local API proxy configuration, model aliases and SHA-256 key digests |
 | `~/.trivium/usage-cache.json` | Each session's usage totals, counted again only when its file changes |
 | `~/.pi/agent/memory/`, `.pi/memory/MEMORY.md` | Global and per-project memory, kept by `@pify/memory` |
 
@@ -323,19 +326,21 @@ with `t("English text")`, and `npm test` checks that every text has a translatio
 
 ## Roadmap
 
-- [x] Code, Research and Write modes with live steps, steering and the context ring
+- [x] Code, Research and Write modes with live steps, steering, message queue and the context ring
 - [x] Inline extension dialogs and system notifications
-- [x] Changes panel with keep and revert
-- [x] Settings: logins, custom endpoints, default and per-mode models, per-mode extensions
+- [x] Settings: logins, custom endpoints, default and per-mode models, per-mode extensions and skills
 - [x] Research: note preview panel with sources
 - [x] Write: document panel with tracked changes to accept or reject
 - [x] Memory in every mode, with a Memory page to review it
 - [x] Usage page with tokens, cost and reply speed
 - [x] Connectors page for MCP servers
-- [x] Code: Git view, branch summary and file Preview
-- [x] Edit, fork and copy messages; chats without a project; pinned projects and sessions
+- [x] Code: Source Control tab (stage, commit with AI drafting, push/pull, conflicts, commit graph), Files tree, Preview and Services
+- [x] Track changes made through `bash` with git snapshots, and move long-running commands to Services
+- [x] Orchestrator work mode with subagent session drawer, separate windows and managed worktrees
+- [x] Local OpenAI and Anthropic API proxy
+- [x] Split view; edit, fork and copy messages; chats without a project; archived, pinned projects and sessions
+- [x] Interactive Mermaid and PlantUML diagrams in replies and Markdown preview
 - [x] English, Simplified Chinese and Japanese interface
-- [x] Track changes made through `bash` with git snapshots
 - [ ] Install extensions from npm by name, and first-party plugins under `@coresmos`
 - [ ] Dark theme
 - [ ] Signed builds for macOS, Windows and Linux
